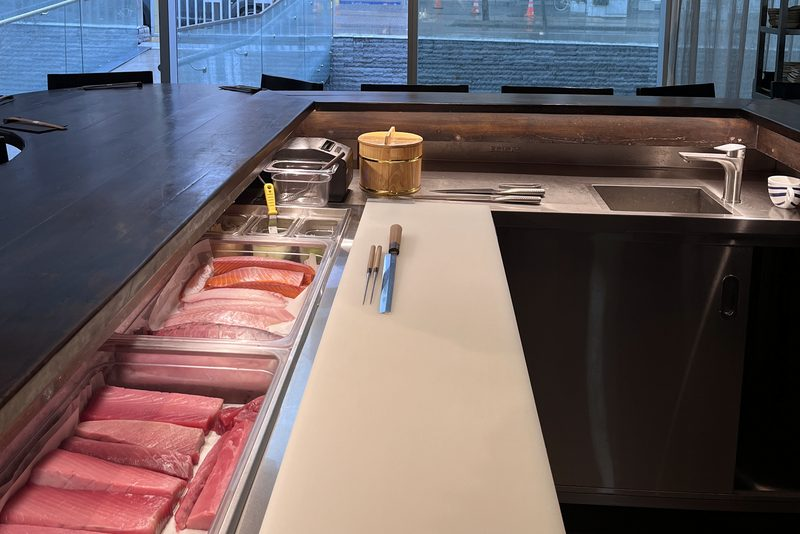
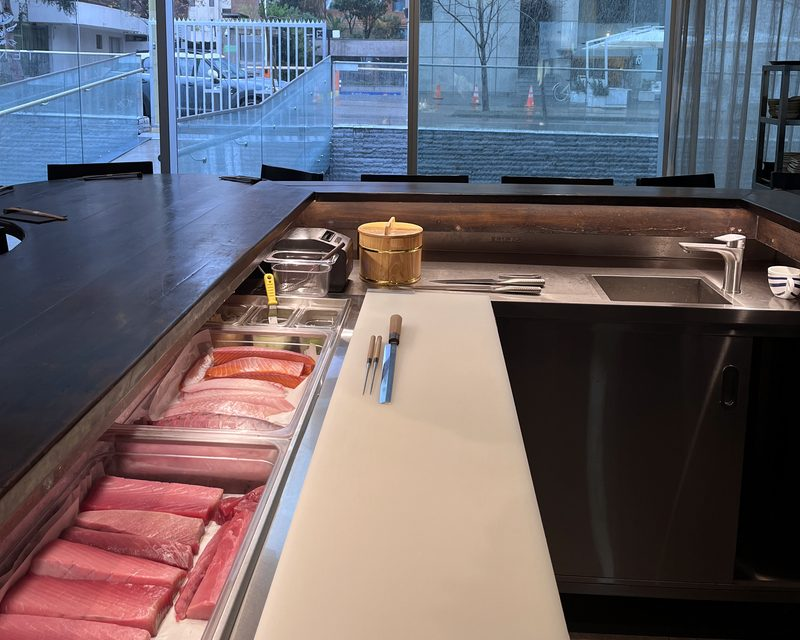
Las celdas del mosaico pasan a 5:4: los platos redondos entran enteros
Los dos bowls seguían cortados y no era cuestión de mover el recorte. Medido: el
plato del chirashi ocupa el 78% del alto de su foto y una celda 3:2 solo muestra el
69%; el donburi necesita 79% y mostraba 73%. La celda era demasiado ancha, así que
ninguna posición lo mostraba entero —al centrarlo se cortaba arriba y abajo, y al
pegarlo abajo se cortaba arriba—.

La proporción 3:2 venía copiada de Omakase, igual que el resto de la geometría. Y
como en el caso anterior, el problema es que ellos disparan apaisado y estas fotos
son verticales u oblicuas de teléfono, con el plato ocupando casi todo el cuadro.

Con celdas en 5:4 entran los cinco platos de Cocina Caliente y los de la galería.
Probé 4:3 también: alcanza justo para el chirashi (necesita 78%, muestra 77,9%) y no
deja margen, así que va 5:4.

El mosaico crece de 448 a 538 px de alto a 1344 de ancho. Barato.

Cambia en los tres lugares a la vez, que es lo que hay que recordar si mañana se
vuelve a tocar: el aspect-ratio del contenedor (2,5 en vez de 3), la proporción con
que visor.py recorta los g-* de la galería, y de ahí sale todo lo demás.

Verificado en el navegador a 1440 CSS: galería 1344x538 ratio 2,50, celda grande
668x538 (1,24) y las chicas 334x267 (1,25), que es exactamente la proporción de los
archivos, o sea recorte cero en la celda. 22 descriptores de srcset correctos, 0
archivos faltantes, generadores idempotentes.

diff --git a/index.html b/index.html
@@ -1214,9 +1214,11 @@ footer{padding:52px 48px 32px;border-top:1px solid rgba(200,146,26,.09);display:
    es para que en una pantalla angosta la fila no se coma la vista. */
 .mz{display:flex;gap:4px;justify-content:center;max-height:74vh}
 /* Mosaico: la misma geometría que la galería de la barra —celda grande del doble en
-   ancho y alto, todas a 3:2—. Recorta, así que va solo donde el recorte no se come
-   el plato; lo decide MOSAICO en este archivo, no el CSS. */
-.mz-mosaico{display:grid;gap:4px;grid-template-columns:2fr 1fr 1fr;grid-template-rows:1fr 1fr;aspect-ratio:3;max-height:none}
+   ancho y alto—, pero con celdas en 5:4, no en 3:2. La proporción de Omakase dejaba
+   el bowl fuera: el del chirashi ocupa el 78% del alto de su foto y una celda 3:2
+   solo muestra el 69%. En 5:4 los platos redondos entran enteros. El aspect-ratio
+   del mosaico es 2,5 porque la fila son 4 anchos de celda y dos altos. */
+.mz-mosaico{display:grid;gap:4px;grid-template-columns:2fr 1fr 1fr;grid-template-rows:1fr 1fr;aspect-ratio:2.5;max-height:none}
 .mz-mosaico .mz-grande{grid-row:1/3}
 /* Dos fotos verticales no llenan el ancho ni estirándolas: la fila necesitaría 874px
    de alto. Ahí el título se corre al lado y las baldosas van a su proporción exacta. */
@@ -1251,7 +1253,7 @@ footer{padding:52px 48px 32px;border-top:1px solid rgba(200,146,26,.09);display:
 /*GAL-CSS-INI*/
 .galeria{padding:0 48px 76px;background:var(--dark)}
 .gal-head{margin-bottom:22px}
-.gal{display:grid;gap:4px;grid-template-columns:2fr 1fr 1fr;grid-template-rows:1fr 1fr;aspect-ratio:3/1;max-width:100%}
+.gal{display:grid;gap:4px;grid-template-columns:2fr 1fr 1fr;grid-template-rows:1fr 1fr;aspect-ratio:5/2;max-width:100%}
 .gal-celda{position:relative;overflow:hidden;padding:0;border:0;background:var(--dark2);cursor:pointer;display:block}
 .gal-celda img{width:100%;height:100%;object-fit:cover;display:block;filter:brightness(.9);transition:filter .4s,transform .6s}
 .gal-celda:hover img{filter:brightness(1);transform:scale(1.03)}

diff --git a/carta.html b/carta.html
@@ -101,9 +101,11 @@ a{color:inherit}
    es para que en una pantalla angosta la fila no se coma la vista. */
 .mz{display:flex;gap:4px;justify-content:center;max-height:74vh}
 /* Mosaico: la misma geometría que la galería de la barra —celda grande del doble en
-   ancho y alto, todas a 3:2—. Recorta, así que va solo donde el recorte no se come
-   el plato; lo decide MOSAICO en este archivo, no el CSS. */
-.mz-mosaico{display:grid;gap:4px;grid-template-columns:2fr 1fr 1fr;grid-template-rows:1fr 1fr;aspect-ratio:3;max-height:none}
+   ancho y alto—, pero con celdas en 5:4, no en 3:2. La proporción de Omakase dejaba
+   el bowl fuera: el del chirashi ocupa el 78% del alto de su foto y una celda 3:2
+   solo muestra el 69%. En 5:4 los platos redondos entran enteros. El aspect-ratio
+   del mosaico es 2,5 porque la fila son 4 anchos de celda y dos altos. */
+.mz-mosaico{display:grid;gap:4px;grid-template-columns:2fr 1fr 1fr;grid-template-rows:1fr 1fr;aspect-ratio:2.5;max-height:none}
 .mz-mosaico .mz-grande{grid-row:1/3}
 /* Dos fotos verticales no llenan el ancho ni estirándolas: la fila necesitaría 874px
    de alto. Ahí el título se corre al lado y las baldosas van a su proporción exacta. */

diff --git a/tools/fotos/visor.py b/tools/fotos/visor.py
@@ -71,7 +71,14 @@ ORIGEN = [
     'salon-ventanal', 'barra-montaje', 'yakitori', 'robata',
 ]
 
-# Recortes apaisados de la galería de la barra. Ahí la geometría de Omakase sí
+# Proporción de la celda del mosaico. Era 3:2 (1,50), copiada de Omakase, y con esa
+# los platos redondos NO CABEN: el bowl del chirashi ocupa el 78% del alto de su foto
+# y una banda 3:2 solo muestra el 69%; el donburi necesita 79% y mostraba 73%. No es
+# cuestión de mover el recorte, la celda es demasiado ancha. En 5:4 entran los dos
+# enteros y el mosaico crece de 448 a 537 px de alto, que es barato.
+RATIO_CELDA = 1.25
+
+# Recortes de la galería de la barra. Ahí la geometría de Omakase sí
 # funciona porque son escenas, no platos. La posición va como FRACCIÓN del recorrido
 # vertical disponible, no en pixeles, para que no dependa del tamaño del original.
 # Los dos bowls van en 1.00 —al ras de abajo— porque son casi cuadrados (1,04 y 1,10):
@@ -173,7 +180,7 @@ def main():
             continue
         im = crudos[nombre]
         W, H = im.size
-        bh = min(H, int(W / 1.5))           # la galería va en 3:2 apaisado
+        bh = min(H, int(W / RATIO_CELDA))   # la celda del mosaico
         y = int((H - bh) * frac)
         rec = escala(iguala(im.crop((0, y, W, y + bh))), 1600)
         rec.save(os.path.join(FOTOS, corte + '.jpg'), 'JPEG',
